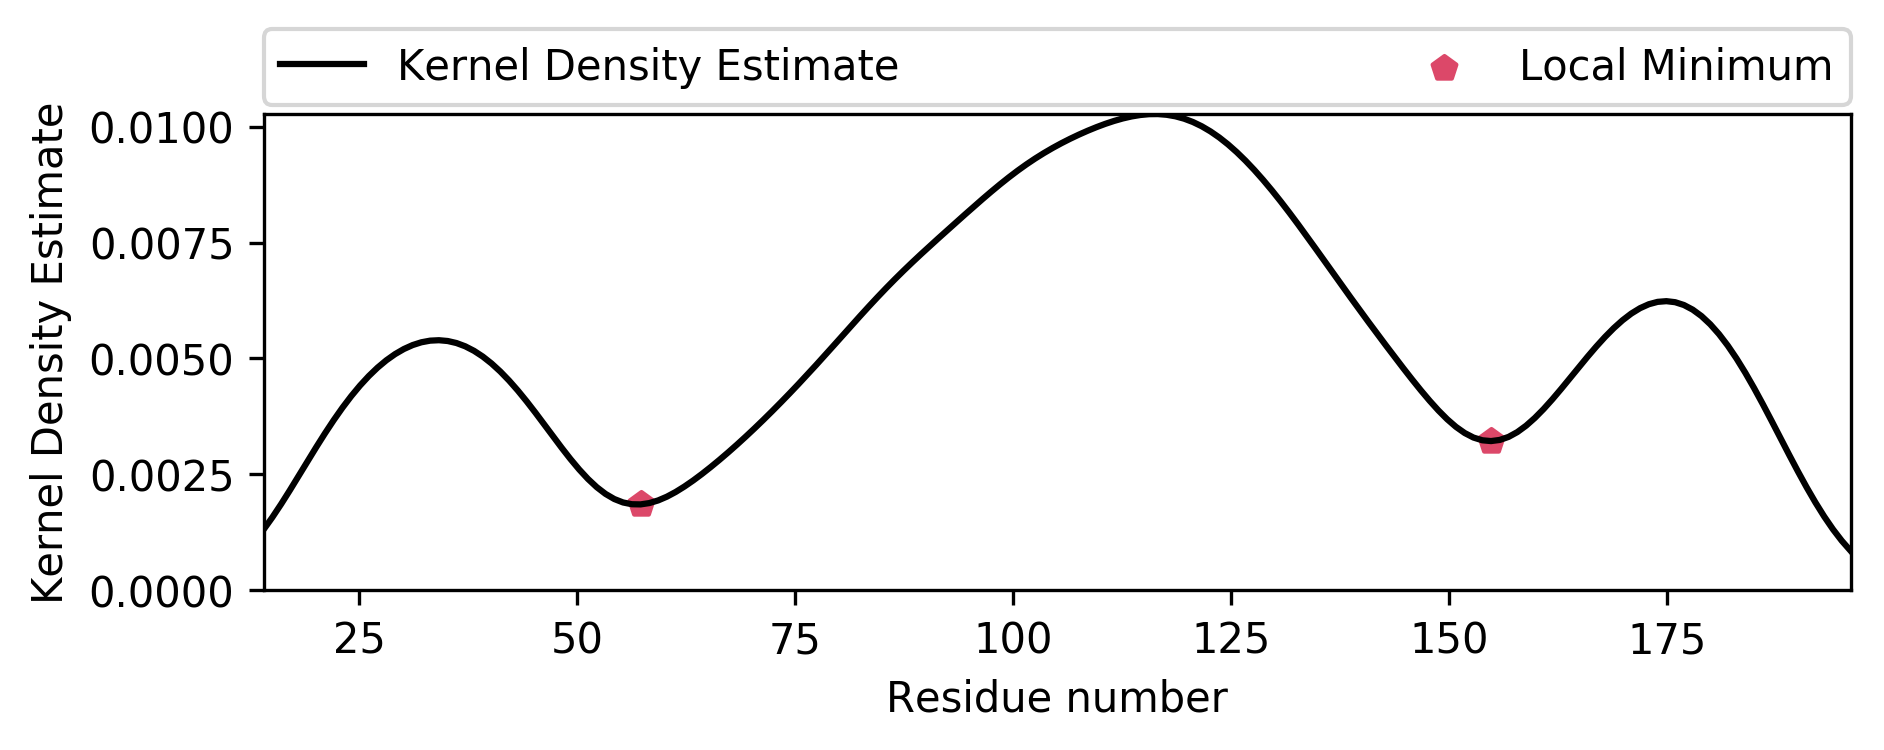
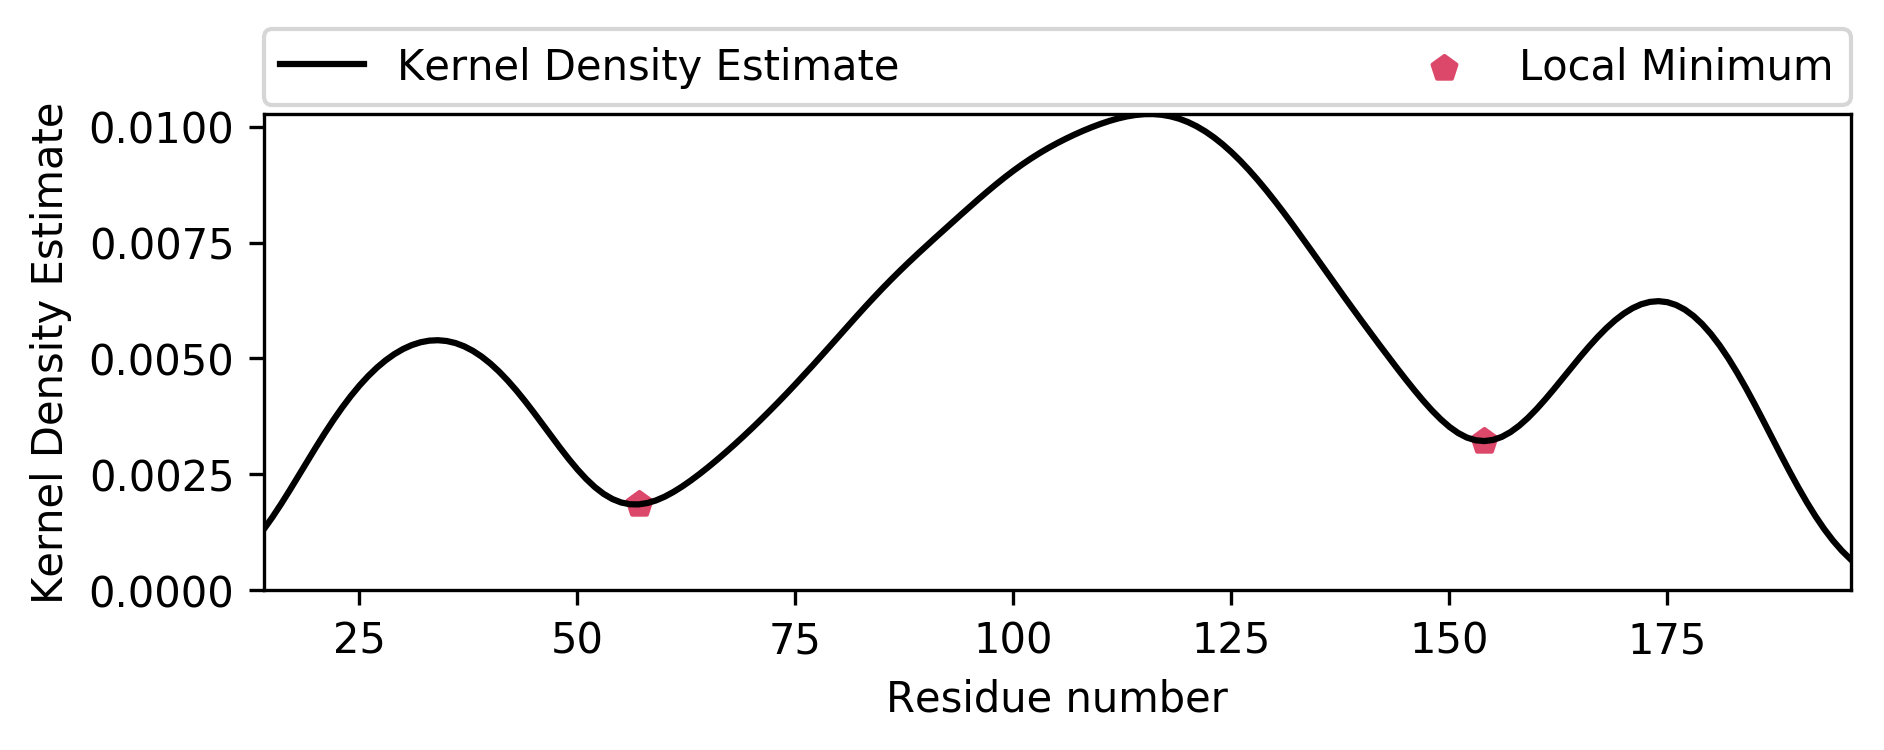
density plot uses kde function from ContactMap now

diff --git a/conkit/plot/ContactDensityPlot.py b/conkit/plot/ContactDensityPlot.py
@@ -18,13 +18,6 @@ try:
 except ImportError:
     SCIPY = False
 
-try:
-    import sklearn.neighbors
-    SKLEARN = True
-except ImportError:
-    SKLEARN = False
-
-
 
 from conkit.plot._Figure import Figure
 from conkit.plot._plottools import ColorDefinitions
@@ -126,48 +119,35 @@ class ContactDensityFigure(Figure):
         self._draw()
 
     def _draw(self):
-        """Draw the actual plot
-        
-        Raises
-        ------
-        RuntimeError
-           Cannot find SciKit package
+        """Draw the actual plot"""
 
-        """
-
-        if not SKLEARN:
-            raise RuntimeError('Cannot find SciKit package')
-
-        # Compute the relevant data we need
-        X = numpy.asarray([i for c in self._hierarchy for i in numpy.arange(c.res1_seq, c.res2_seq)])[:, numpy.newaxis]
-        X_plot = numpy.linspace(X.min(), X.max(), X.max() - X.min())[:, numpy.newaxis]
-
-        # Obtain the bandwidth as defined by user method
-        if self.bw_method == "bowman":
-            bandwidth = ContactDensityFigure.bowman_bandwidth(X)
-        else:
-            bandwidth = ContactDensityFigure.bowman_bandwidth(X)
-
-        # Estimate the Kernel Density using original data and fit random sample
-        kde = sklearn.neighbors.KernelDensity(bandwidth=bandwidth).fit(X)
-        dens = numpy.exp(kde.score_samples(X_plot))
+        # Estimate the Kernel Density using original data
+        dens = numpy.asarray(self.hierarchy.calculate_kernel_density(self.bw_method))
         
         # Plot the data
         fig, ax = matplotlib.pyplot.subplots()
 
-        ax.plot(X_plot[:, 0], dens, linestyle="solid",
+        # The residues for the x-axis
+        residues = numpy.asarray(
+            list(set(
+                sorted([c.res1_seq for c in self.hierarchy] + [c.res2_seq for c in self.hierarchy])
+            ))
+        )
+        x = numpy.arange(residues.min(), residues.max())
+
+        ax.plot(x, dens, linestyle="solid",
                 color=ColorDefinitions.GENERAL, label="Kernel Density Estimate")
 
         # Find all local minima
         if SCIPY:
             local_minima_idx = scipy.signal.argrelmin(dens)[0]
-            ax.scatter(X_plot[local_minima_idx], dens[local_minima_idx], marker="p",
+            ax.scatter(x[local_minima_idx], dens[local_minima_idx], marker="p",
                        color=ColorDefinitions.MISMATCH, label="Local Minimum")
         else:
             warnings.warn("SciPy not installed - cannot determine local minima")
 
         # Prettify the plot
-        ax.set_xlim(X.min(), X.max())
+        ax.set_xlim(x.min(), x.max())
         ax.set_ylim(0., dens.max())
 
         ax.set_xlabel('Residue number')
@@ -181,29 +161,3 @@ class ContactDensityFigure(Figure):
         fig.tight_layout()
 
         fig.savefig(self.file_name, bbox_inches='tight', dpi=self.dpi)
-
-    @staticmethod
-    def bowman_bandwidth(X):
-        """This is the optimal bandwidth if the point distribution is Gaussian.
-
-        To calculate the bandwidth for the 1D data array ``X`` with ``n`` data points, the following
-        equation is used:
-        
-        .. math::
-
-           bandwidth=\\sqrt{\\frac{\\sum{X}^2}{n}-(\\frac{\\sum{X}}{n})^2}*(\\frac{3*n}{4})^\\frac{-1}{5}
-        
-        This equation is a direct implementation taken from Bowman & Azzalini [#]_.
-        
-        .. [#] Bowman, A.W. & Azzalini, A. (1997). Applied Smoothing Techniques for Data Analysis.
-
-        Parameters
-        ----------
-        X : list, tuple
-           A list of data points
-
-
-        """
-        X = numpy.asarray(X)
-        sigma = numpy.sqrt((X ** 2).sum() / X.shape[0] - (X.sum() / X.shape[0]) ** 2)
-        return sigma * ((3. * X.shape[0] / 4.) ** (-1. / 5.))

diff --git a/conkit/command_line/conkit_plot.py b/conkit/command_line/conkit_plot.py
@@ -115,9 +115,8 @@ boundaries better.
                                                         description=description,
                                                         formatter_class=argparse.RawDescriptionHelpFormatter)
     _add_default_args(contact_density_subparser)
-    ## Help for below: 'The bandwidth estimation method [default: bowman]'
     contact_density_subparser.add_argument('-b', dest='bw_method', default='bowman',
-                                           help=argparse.SUPPRESS)
+                                           help='The bandwidth estimation method [default: bowman]')
     contact_density_subparser.add_argument('-d', dest='dtn', default=5, type=int,
                                            help='Minimum sequence separation [default: 5]')
     contact_density_subparser.add_argument('-f', dest='dfactor', default=10.0, type=float,
